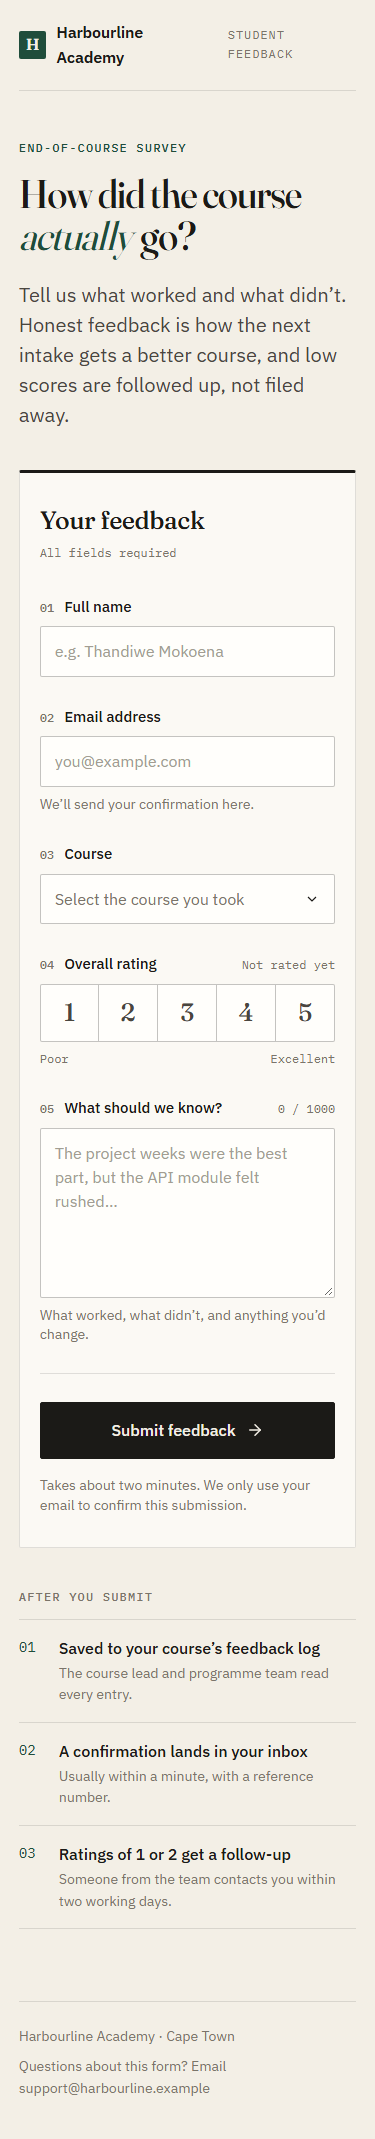
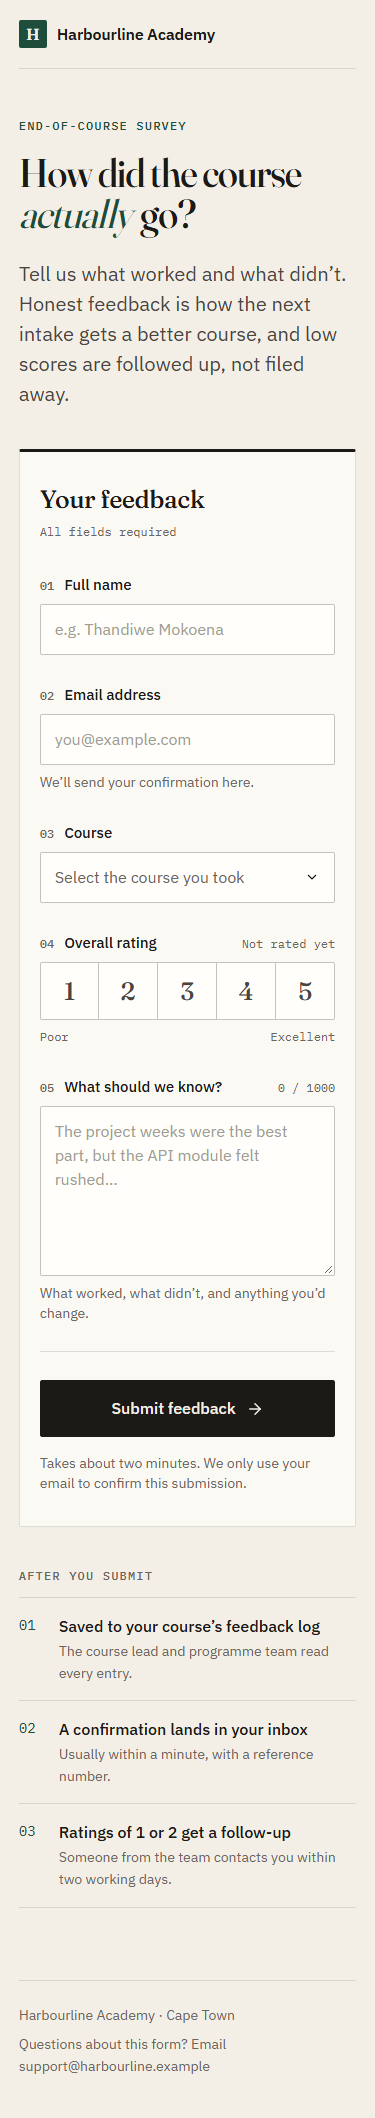
Readable grey text and a one-line header on phones
- --ink-3 #7a746a -> #6b655b: the small grey text was 4.04:1 against the
  page, below the WCAG AA 4.5:1 minimum; now 5.03:1
- Header labels no longer wrap; the "Student feedback" tag hides below
  420 px. No sideways scroll from 320 px up
- Screenshots retaken; README notes the change and how it was re-tested

diff --git a/feedback-form/src/index.css b/feedback-form/src/index.css
@@ -9,7 +9,7 @@
   --input-bg: #fffefb;
   --ink: #1b1a17;
   --ink-2: #4a463f;
-  --ink-3: #7a746a;
+  --ink-3: #6b655b; /* lightest text that still passes WCAG AA (4.5:1) on every background here */
   --rule: rgba(27, 26, 23, 0.12);
   --rule-strong: rgba(27, 26, 23, 0.26);
 
@@ -120,6 +120,7 @@ dd {
   letter-spacing: -0.01em;
   color: var(--ink);
   text-decoration: none;
+  white-space: nowrap;
 }
 
 .wordmark__mark {
@@ -141,6 +142,15 @@ dd {
   letter-spacing: 0.08em;
   text-transform: uppercase;
   color: var(--ink-3);
+  white-space: nowrap;
+}
+
+/* On a narrow phone both labels wrapped onto two lines; the tag is the one
+   that can go. */
+@media (max-width: 420px) {
+  .masthead__meta {
+    display: none;
+  }
 }
 
 /* Mobile order: intro, form, then "after you submit".

diff --git a/README.md b/README.md
@@ -90,4 +90,11 @@ Checked on 28 September 2026 against n8n 2.40.7 running in Docker:
   - an unreachable n8n shows "We couldn't reach the feedback service";
   - at 375 px wide the page fits with no sideways scrolling.
 
+A design check afterwards found two things, both fixed in `src/index.css`:
+
+- The small grey text (hints, counters, "Poor / Excellent", step descriptions) failed the WCAG AA contrast minimum of 4.5:1: 4.04:1 on the page background. `--ink-3` went from `#7a746a` to `#6b655b`, which is 5.03:1 on the page and 5.49:1 on the form.
+- On a phone, the header wrapped onto two lines on both sides. The labels now stay on one line, and below 420 px the "Student feedback" tag is hidden. Checked at 320, 375, 430 and 1280 px, with no sideways scrolling at any of them.
+
+That change was CSS only. The same 11 checks were run again afterwards, with the webhook answered by a stand-in returning the workflow's own success reply, because n8n wasn't running at the time. All 11 passed, and the screenshots above are from that run.
+
 **Not tested:** the real Google Sheets append and Gmail send. They need a Google account connected (step 3 above).
